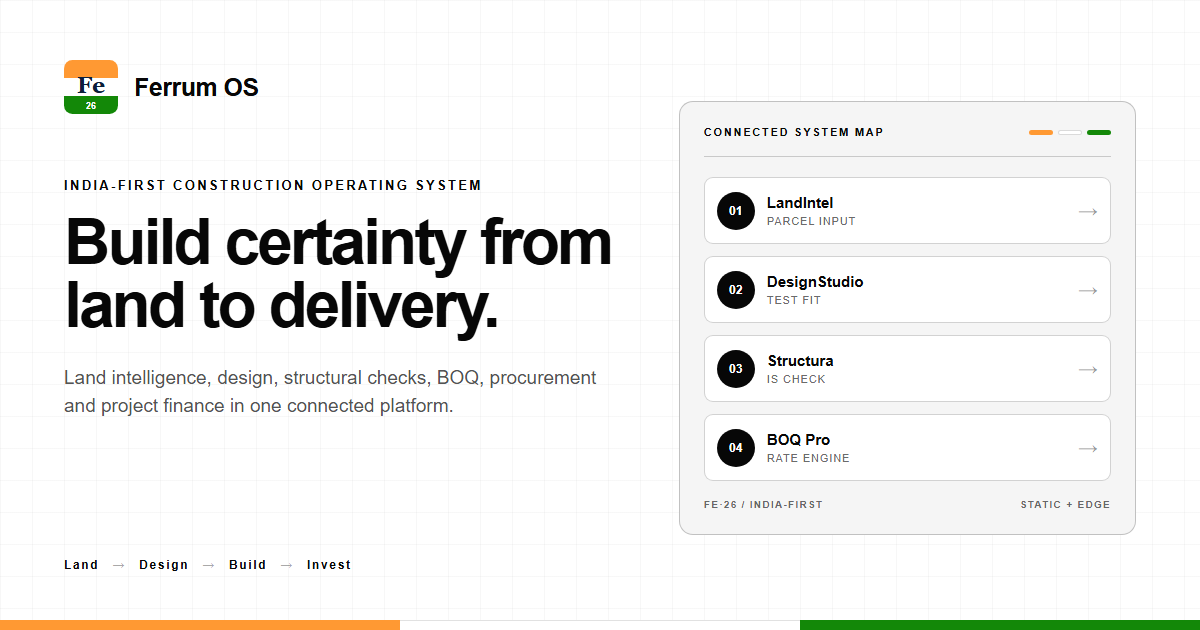
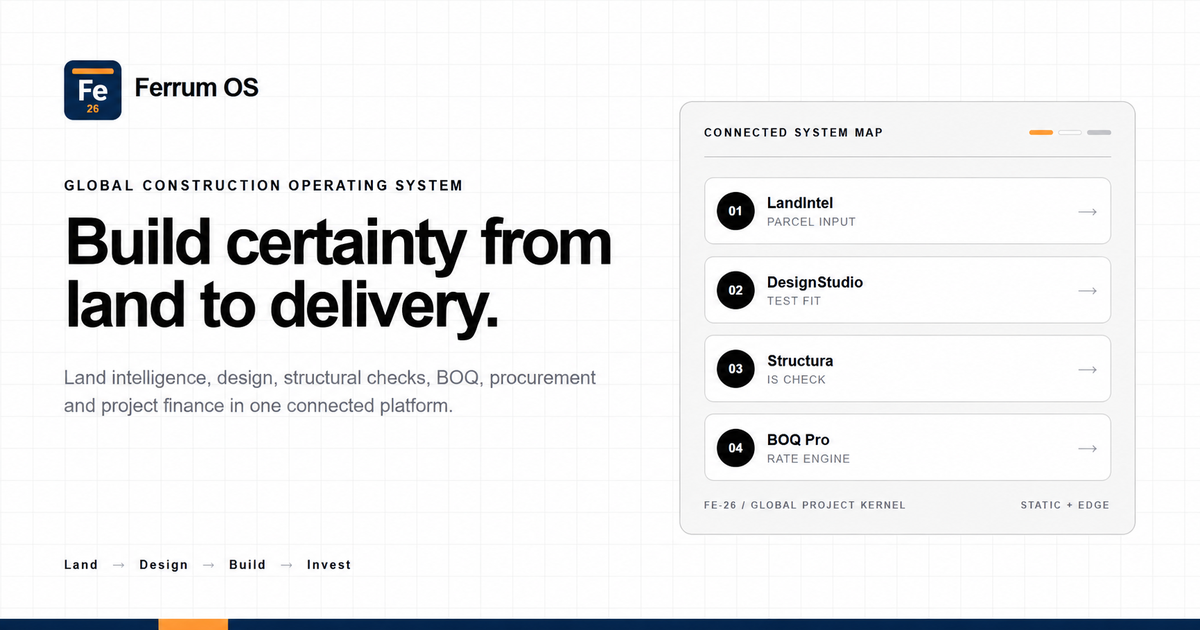
[AI: MASON] Globalize brand and regional feature delivery

diff --git a/apps/web/components/Concierge.tsx b/apps/web/components/Concierge.tsx
@@ -7,6 +7,7 @@ import { recordFeedback } from "../lib/ai/feedback"
 import { AGENT_MODELS, CONSTRUCTION_CONNECTOR_GROUPS, canRunModel, type AgentModelId } from "../lib/ai/agentRegistry"
 import { productFeatureRegistry, productLabels, type ProductFeature } from "../lib/productFeatureRegistry"
 import type { CockpitProduct } from "./workspace/ProductCockpitPreview"
+import type { UserRegionProfile } from "../lib/regions/regionPolicy"
 
 type Message = {
   role: "user" | "assistant"
@@ -50,6 +51,7 @@ export default function Concierge() {
   const [showConnections, setShowConnections] = useState(false)
   const [workspaceContext, setWorkspaceContext] = useState<SutraContext | null>(null)
   const [activeFeature, setActiveFeature] = useState<{ productId: CockpitProduct; feature: ProductFeature } | null>(null)
+  const [regionProfile, setRegionProfile] = useState<UserRegionProfile | null>(null)
 
   useEffect(() => {
     if (open && panelRef.current) panelRef.current.focus()
@@ -68,6 +70,15 @@ export default function Concierge() {
   }, [])
 
   useEffect(() => {
+    const controller = new AbortController()
+    fetch("/api/region", { signal: controller.signal })
+      .then((response) => response.ok ? response.json() : null)
+      .then((payload) => setRegionProfile(payload?.profile ?? null))
+      .catch(() => setRegionProfile(null))
+    return () => controller.abort()
+  }, [])
+
+  useEffect(() => {
     const handleToolSelection = (event: MouseEvent) => {
       const target = event.target instanceof Element ? event.target.closest<HTMLElement>("[data-sutra-product][data-sutra-feature-id]") : null
       if (!target) return
@@ -82,6 +93,16 @@ export default function Concierge() {
   const handleSend = (text: string) => {
     if (!text.trim()) return
     setMessages((prev) => [...prev, { role: "user", text }])
+    if (/my (region|country)|available in (my|this) (region|country)|regional availability/i.test(text) && regionProfile) {
+      setMessages((prev) => [...prev, {
+        role: "assistant",
+        text: `${regionProfile.label} is detected as a coarse, non-persisted experience region. Available now: ${regionProfile.enabledExperience.join(", ")}. Held pending a verified project jurisdiction: ${regionProfile.heldExperience.join(", ")}. Your project location, not this detected user location, governs design and compliance.`,
+        source: "deterministic",
+        query: text,
+      }])
+      setInput("")
+      return
+    }
     if (!canRunModel(selectedModel)) {
       const model = AGENT_MODELS.find((item) => item.id === selectedModel)
       setMessages((prev) => [...prev, { role: "assistant", text: `${model?.label ?? "This model"} needs an approved provider connection before it can run here. Until connected, it receives no Ferrum data or tool access. Select SUTRA to continue now.`, source: "deterministic", query: text }])
@@ -174,6 +195,11 @@ export default function Concierge() {
         <div className="mt-2 flex items-center justify-between gap-2">
           <p className="text-[10px] leading-4 text-relume-muted">Ferrum permissions govern every model and tool action.</p>
           <button type="button" onClick={() => setShowConnections((current) => !current)} className="min-h-11 shrink-0 rounded-full border border-relume-border px-3 text-xs font-semibold text-relume-command" aria-expanded={showConnections}>Connections</button>
+        </div>
+        <div className="mt-2 rounded-relume border border-relume-border bg-relume-surface-secondary px-3 py-2" data-region-profile>
+          <p className="text-[10px] font-semibold uppercase tracking-[0.1em] text-relume-muted">Experience region</p>
+          <p className="mt-1 text-xs font-semibold text-relume-command">{regionProfile ? `${regionProfile.label} · ${regionProfile.readiness}` : "Detecting coarse region…"}</p>
+          <p className="mt-1 text-[10px] leading-4 text-relume-muted">User location personalizes discovery. Project location governs design and compliance.</p>
         </div>
       </div>
 

diff --git a/apps/web/lib/regions/regionPolicy.ts b/apps/web/lib/regions/regionPolicy.ts
@@ -1,0 +1,87 @@
+export type JurisdictionReadiness = "AVAILABLE" | "PARTIAL" | "GLOBAL-CORE"
+
+export type UserRegionProfile = {
+  countryCode: string
+  label: string
+  locale: string
+  currency: string
+  jurisdictionPack: string
+  readiness: JurisdictionReadiness
+  enabledExperience: string[]
+  heldExperience: string[]
+}
+
+const EU_COUNTRIES = new Set([
+  "AT", "BE", "BG", "HR", "CY", "CZ", "DE", "DK", "EE", "ES", "FI", "FR", "GR", "HU", "IE", "IT", "LT", "LU", "LV", "MT", "NL", "PL", "PT", "RO", "SE", "SI", "SK",
+])
+
+const globalFeatures = [
+  "Project workspace",
+  "DesignStudio modelling and visualization",
+  "IFC/openBIM intake and export",
+  "Evidence and revision controls",
+  "SUTRA product guidance",
+]
+
+const jurisdictionHeld = [
+  "Authority-verified planning approval",
+  "Local code-compliance conclusion",
+  "Local permit submission",
+]
+
+/**
+ * Coarse user location personalizes discovery only. Project rules are always
+ * selected from the project's own recorded jurisdiction, never the user's IP.
+ */
+export function resolveUserRegion(countryCode?: string | null): UserRegionProfile {
+  const code = (countryCode || "XX").trim().toUpperCase()
+  if (code === "IN") {
+    return {
+      countryCode: code,
+      label: "India",
+      locale: "en-IN",
+      currency: "INR",
+      jurisdictionPack: "india",
+      readiness: "AVAILABLE",
+      enabledExperience: [...globalFeatures, "India parcel and standards guidance", "BEE Eco Niwas Samhita checks"],
+      heldExperience: jurisdictionHeld,
+    }
+  }
+  if (code === "US") {
+    return {
+      countryCode: code,
+      label: "United States",
+      locale: "en-US",
+      currency: "USD",
+      jurisdictionPack: "united-states",
+      readiness: "PARTIAL",
+      enabledExperience: globalFeatures,
+      heldExperience: [...jurisdictionHeld, "State/county/city rule-pack conclusions"],
+    }
+  }
+  if (EU_COUNTRIES.has(code)) {
+    return {
+      countryCode: code,
+      label: "European region",
+      locale: "en",
+      currency: "EUR",
+      jurisdictionPack: "european-union",
+      readiness: "PARTIAL",
+      enabledExperience: globalFeatures,
+      heldExperience: [...jurisdictionHeld, "Member-state and municipal rule-pack conclusions"],
+    }
+  }
+  return {
+    countryCode: code,
+    label: code === "XX" ? "Location unresolved" : code,
+    locale: "en",
+    currency: "USD",
+    jurisdictionPack: "global-openbim",
+    readiness: "GLOBAL-CORE",
+    enabledExperience: globalFeatures,
+    heldExperience: [...jurisdictionHeld, "Country-specific jurisdiction conclusions"],
+  }
+}
+
+export const regionPolicyRule = "User location personalizes discovery; project location governs design and compliance."
+

diff --git a/apps/web/components/BrandMark.tsx b/apps/web/components/BrandMark.tsx
@@ -1,8 +1,6 @@
-// Fe·26 brand mark (W2-368, revised per operator spec — no chakra/wheel):
-// rounded-square tricolor tile, large bold navy "Fe" as the dominant
-// centered symbol, small white "26" as the footer/atomic-number text in
-// the green band. Same SVG as public/favicon.svg, inlined here so
-// header/footer/Command Deck can render it without an extra image request.
+// International Fe·26 brand mark: neutral deep-navy material tile with a
+// single Ferrum-orange accent. No flag, national colour banding or country
+// symbol is encoded in the product identity. Same SVG as public/favicon.svg.
 export default function BrandMark({ size = 24, className = '' }: { size?: number; className?: string }) {
   return (
     <svg
@@ -14,17 +12,16 @@ export default function BrandMark({ size = 24, className = '' }: { size?: number
       className={className}
     >
       <defs>
-        <clipPath id="fe26-tile">
-          <rect x="0" y="0" width="64" height="64" rx="10" ry="10" />
-        </clipPath>
+        <linearGradient id="fe26-field" x1="8" y1="4" x2="56" y2="60" gradientUnits="userSpaceOnUse">
+          <stop stopColor="#123A60" />
+          <stop offset="1" stopColor="#07182B" />
+        </linearGradient>
       </defs>
-      <g clipPath="url(#fe26-tile)">
-        <rect x="0" y="0" width="64" height="21.33" fill="#FF9933" />
-        <rect x="0" y="21.33" width="64" height="21.33" fill="#FFFFFF" />
-        <rect x="0" y="42.67" width="64" height="21.33" fill="#138808" />
-      </g>
-      <text x="32" y="39" textAnchor="middle" fontFamily="Georgia, serif" fontWeight={700} fontSize="27" fill="#0B1F3A">Fe</text>
-      <text x="32" y="58.5" textAnchor="middle" fontFamily="Arial, sans-serif" fontWeight={700} fontSize="11" fill="#FFFFFF">26</text>
+      <rect width="64" height="64" rx="11" fill="url(#fe26-field)" />
+      <rect x="4.5" y="4.5" width="55" height="55" rx="8.5" fill="none" stroke="#4F7897" strokeOpacity="0.55" />
+      <rect x="13" y="10" width="38" height="4" rx="2" fill="#FF9933" />
+      <text x="32" y="41" textAnchor="middle" fontFamily="Georgia, serif" fontWeight={700} fontSize="29" fill="#FFFFFF">Fe</text>
+      <text x="32" y="55" textAnchor="middle" fontFamily="Arial, sans-serif" fontWeight={700} fontSize="10" fill="#FFB05F">26</text>
     </svg>
   )
 }

diff --git a/apps/web/lib/openapi/spec.ts b/apps/web/lib/openapi/spec.ts
@@ -15,7 +15,7 @@ export const openApiSpec: OpenAPIV3.Document = {
     title: 'Ferrum OS API',
     version: '1.0.0',
     description:
-      'India-first construction & investment platform — land feasibility, AI design, structural checks, BOQ estimation, rate comparison, IRR/NPV modeling, CDE status. See docs/AGENT_INTERFACE.md for the full agent-interface spec; every read route here has an identical MCP tool at /mcp.',
+      'Global construction intelligence platform — land feasibility, design, structural checks, BOQ estimation, rate comparison, investment modeling and controlled project information. See docs/AGENT_INTERFACE.md for the full agent-interface specification.',
   },
   servers: [{ url: '/' }],
   paths: {
@@ -23,6 +23,30 @@ export const openApiSpec: OpenAPIV3.Document = {
       get: {
         summary: 'Health check',
         responses: { '200': { description: 'OK', content: { 'application/json': { schema: { type: 'object', properties: { status: { type: 'string' } } } } } } },
+      },
+    },
+    '/api/region': {
+      get: {
+        summary: 'Resolve coarse experience region and available jurisdiction pack',
+        description: 'Uses the Cloudflare edge country/region signal for non-persisted experience localization. Project Context, not this endpoint, governs project design and compliance.',
+        responses: {
+          '200': {
+            description: 'Regional experience profile',
+            content: {
+              'application/json': {
+                schema: {
+                  type: 'object',
+                  properties: {
+                    detected: { type: 'object' },
+                    profile: { type: 'object' },
+                    rule: { type: 'string' },
+                    projectJurisdiction: { type: 'string' },
+                  },
+                },
+              },
+            },
+          },
+        },
       },
     },
     '/api/ulpin/{id}': {

diff --git a/apps/web/app/layout.tsx b/apps/web/app/layout.tsx
@@ -18,23 +18,23 @@ export const metadata: Metadata = {
   manifest: '/manifest.webmanifest',
   metadataBase: new URL(SITE_BASE_URL),
   title: {
-    default: 'Ferrum OS - AI-native construction platform for India',
+    default: 'Ferrum OS - global construction intelligence platform',
     template: '%s | Ferrum OS',
   },
   description:
-    'Ferrum OS is an India-first, AI-native construction platform covering land intelligence, design, structural checks, BOQ, procurement, and project finance.',
+    'Ferrum OS connects land intelligence, building design, structural checks, quantities, procurement, and project finance through one evidence-controlled platform.',
   openGraph: {
-    title: 'Ferrum OS - AI-native construction platform for India',
+    title: 'Ferrum OS - global construction intelligence platform',
     description:
-      'Ferrum OS is an India-first, AI-native construction platform covering land intelligence, design, structural checks, BOQ, procurement, and project finance.',
+      'Ferrum OS connects land intelligence, building design, structural checks, quantities, procurement, and project finance through one evidence-controlled platform.',
     type: 'website',
-    locale: 'en_IN',
+    locale: 'en',
   },
   twitter: {
     card: 'summary_large_image',
-    title: 'Ferrum OS - AI-native construction platform for India',
+    title: 'Ferrum OS - global construction intelligence platform',
     description:
-      'Ferrum OS is an India-first, AI-native construction platform covering land intelligence, design, structural checks, BOQ, procurement, and project finance.',
+      'Ferrum OS connects land intelligence, building design, structural checks, quantities, procurement, and project finance through one evidence-controlled platform.',
   },
 }
 

diff --git a/apps/web/worker.ts b/apps/web/worker.ts
@@ -41,6 +41,7 @@ import { SAMPLE_GOVT_RATES, SAMPLE_STAMP_DUTY, SAMPLE_ALLOWABLE_FSI, SAMPLE_MIN_
 import type { City, BoqItem, LandData, RegulatoryData } from './lib/analysis/types'
 import { computePlotIntel } from './lib/parcelIntel/parcelIntel'
 import { createRequestId, normalizeClientError, normalizeError, redactRoute, writeOpsEvent } from './lib/ops/observability'
+import { regionPolicyRule, resolveUserRegion } from './lib/regions/regionPolicy'
 
 async function requireUser(env: Env, cookieHeader: string | undefined) {
   const sessionId = parseSessionCookie(cookieHeader)
@@ -134,6 +135,23 @@ app.onError((error, c) => {
 })
 
 app.get('/api/health', (c) => c.json({ status: 'ok' }))
+
+app.get('/api/region', (c) => {
+  const edge = c.req.raw.cf as { country?: string; region?: string; timezone?: string } | undefined
+  const profile = resolveUserRegion(edge?.country)
+  return c.json({
+    detected: {
+      countryCode: profile.countryCode,
+      region: edge?.region ?? null,
+      timezone: edge?.timezone ?? null,
+      precision: "EDGE-COARSE",
+      persisted: false,
+    },
+    profile,
+    rule: regionPolicyRule,
+    projectJurisdiction: "SELECTED_FROM_PROJECT_CONTEXT",
+  })
+})
 
 app.post('/api/ops/client-errors', async (c) => {
   if (!(await checkIpRateLimit(c.env.DB, c.req.raw, 'client-errors', 20, 60))) {

diff --git a/apps/web/lib/regions/regionPolicy.test.ts b/apps/web/lib/regions/regionPolicy.test.ts
@@ -1,0 +1,22 @@
+import { describe, expect, it } from "vitest"
+import { regionPolicyRule, resolveUserRegion } from "./regionPolicy"
+
+describe("region availability policy", () => {
+  it("enables the reviewed India pack without claiming approvals", () => {
+    const profile = resolveUserRegion("IN")
+    expect(profile.readiness).toBe("AVAILABLE")
+    expect(profile.enabledExperience).toContain("BEE Eco Niwas Samhita checks")
+    expect(profile.heldExperience).toContain("Local code-compliance conclusion")
+  })
+
+  it("keeps the global project kernel available when location is unknown", () => {
+    const profile = resolveUserRegion(null)
+    expect(profile.readiness).toBe("GLOBAL-CORE")
+    expect(profile.enabledExperience).toContain("DesignStudio modelling and visualization")
+  })
+
+  it("separates user discovery from project jurisdiction", () => {
+    expect(regionPolicyRule).toContain("project location governs")
+  })
+})
+

diff --git a/apps/web/lib/ai/retrieval.ts b/apps/web/lib/ai/retrieval.ts
@@ -65,6 +65,14 @@ export function retrieve(query: string, topK = 3): RetrievalHit[] {
       selected[selected.length - 1] = parent
     }
   }
+  // A broad feature corpus can crowd a directly matching product overview
+  // outside topK even when none of the selected feature rows happens to be
+  // the one that triggers the parent-injection loop above. Preserve the best
+  // matching product entry as the stable navigation/citation anchor.
+  const bestProduct = hits.find((hit) => hit.doc.id.startsWith('product:'))
+  if (bestProduct && !selected.some((hit) => hit.doc.id === bestProduct.doc.id)) {
+    selected[selected.length - 1] = bestProduct
+  }
   return selected.sort((a, b) => b.score - a.score)
 }
 

diff --git a/apps/web/components/Footer.tsx b/apps/web/components/Footer.tsx
@@ -106,7 +106,7 @@ export default function Footer() {
           <p className="text-sm text-relume-muted">
             © {new Date().getFullYear()} Ferrum OS. All rights reserved.
           </p>
-          <p className="text-sm text-relume-muted">Fe·26 — India-first construction &amp; investment platform. Launch 2026.</p>
+          <p className="text-sm text-relume-muted">Fe·26 — global project intelligence from land to delivery.</p>
         </div>
       </div>
     </footer>

diff --git a/apps/web/lib/siteConfig.ts b/apps/web/lib/siteConfig.ts
@@ -8,4 +8,4 @@
 export const SITE_BASE_URL = process.env.NEXT_PUBLIC_SITE_URL ?? 'https://www.ferrumos.com'
 
 export const SOCIAL_CARD_PATH = '/social-card.png'
-export const SOCIAL_CARD_ALT = 'Ferrum OS - India-first construction operating system from land to delivery.'
+export const SOCIAL_CARD_ALT = 'Ferrum OS - global construction operating system from land to delivery.'

diff --git a/docs/DESIGNSTUDIO_OPEN_RENDERING_ARCHITECTURE.md b/docs/DESIGNSTUDIO_OPEN_RENDERING_ARCHITECTURE.md
@@ -80,3 +80,9 @@ Ferrum OS is worldwide in scope. India is the first deep jurisdiction pack, not 
 Country support is released through independently versioned jurisdiction packs. Each pack resolves the country, subnational authority, municipality or authority having jurisdiction, rule edition, effective date, local amendments, official source and licence. A pack cannot convert a design into an approval; it can show checked clauses, unresolved requirements and the professional or authority responsible for closure.
 
 Where a reviewed pack is unavailable, the design and environmental simulation tools remain usable while regulatory conclusions stay `UNKNOWN`. SUTRA must never apply Indian, United States, European or other rules outside their recorded scope.
+
+### Regional delivery contract
+
+Ferrum may use Cloudflare's coarse edge country/region signal to localize discovery, currency, language and the set of jurisdiction packs presented to a visitor. The signal is returned by `/api/region`, is not persisted by that endpoint, and can be overridden by the user.
+
+User location never selects the governing design code. Project Context owns the project country, authority and parcel location. A user in India working on a London project receives the United Kingdom project pack once that project jurisdiction is selected and verified. The governing rule is: **user location personalizes discovery; project location governs design and compliance.**
